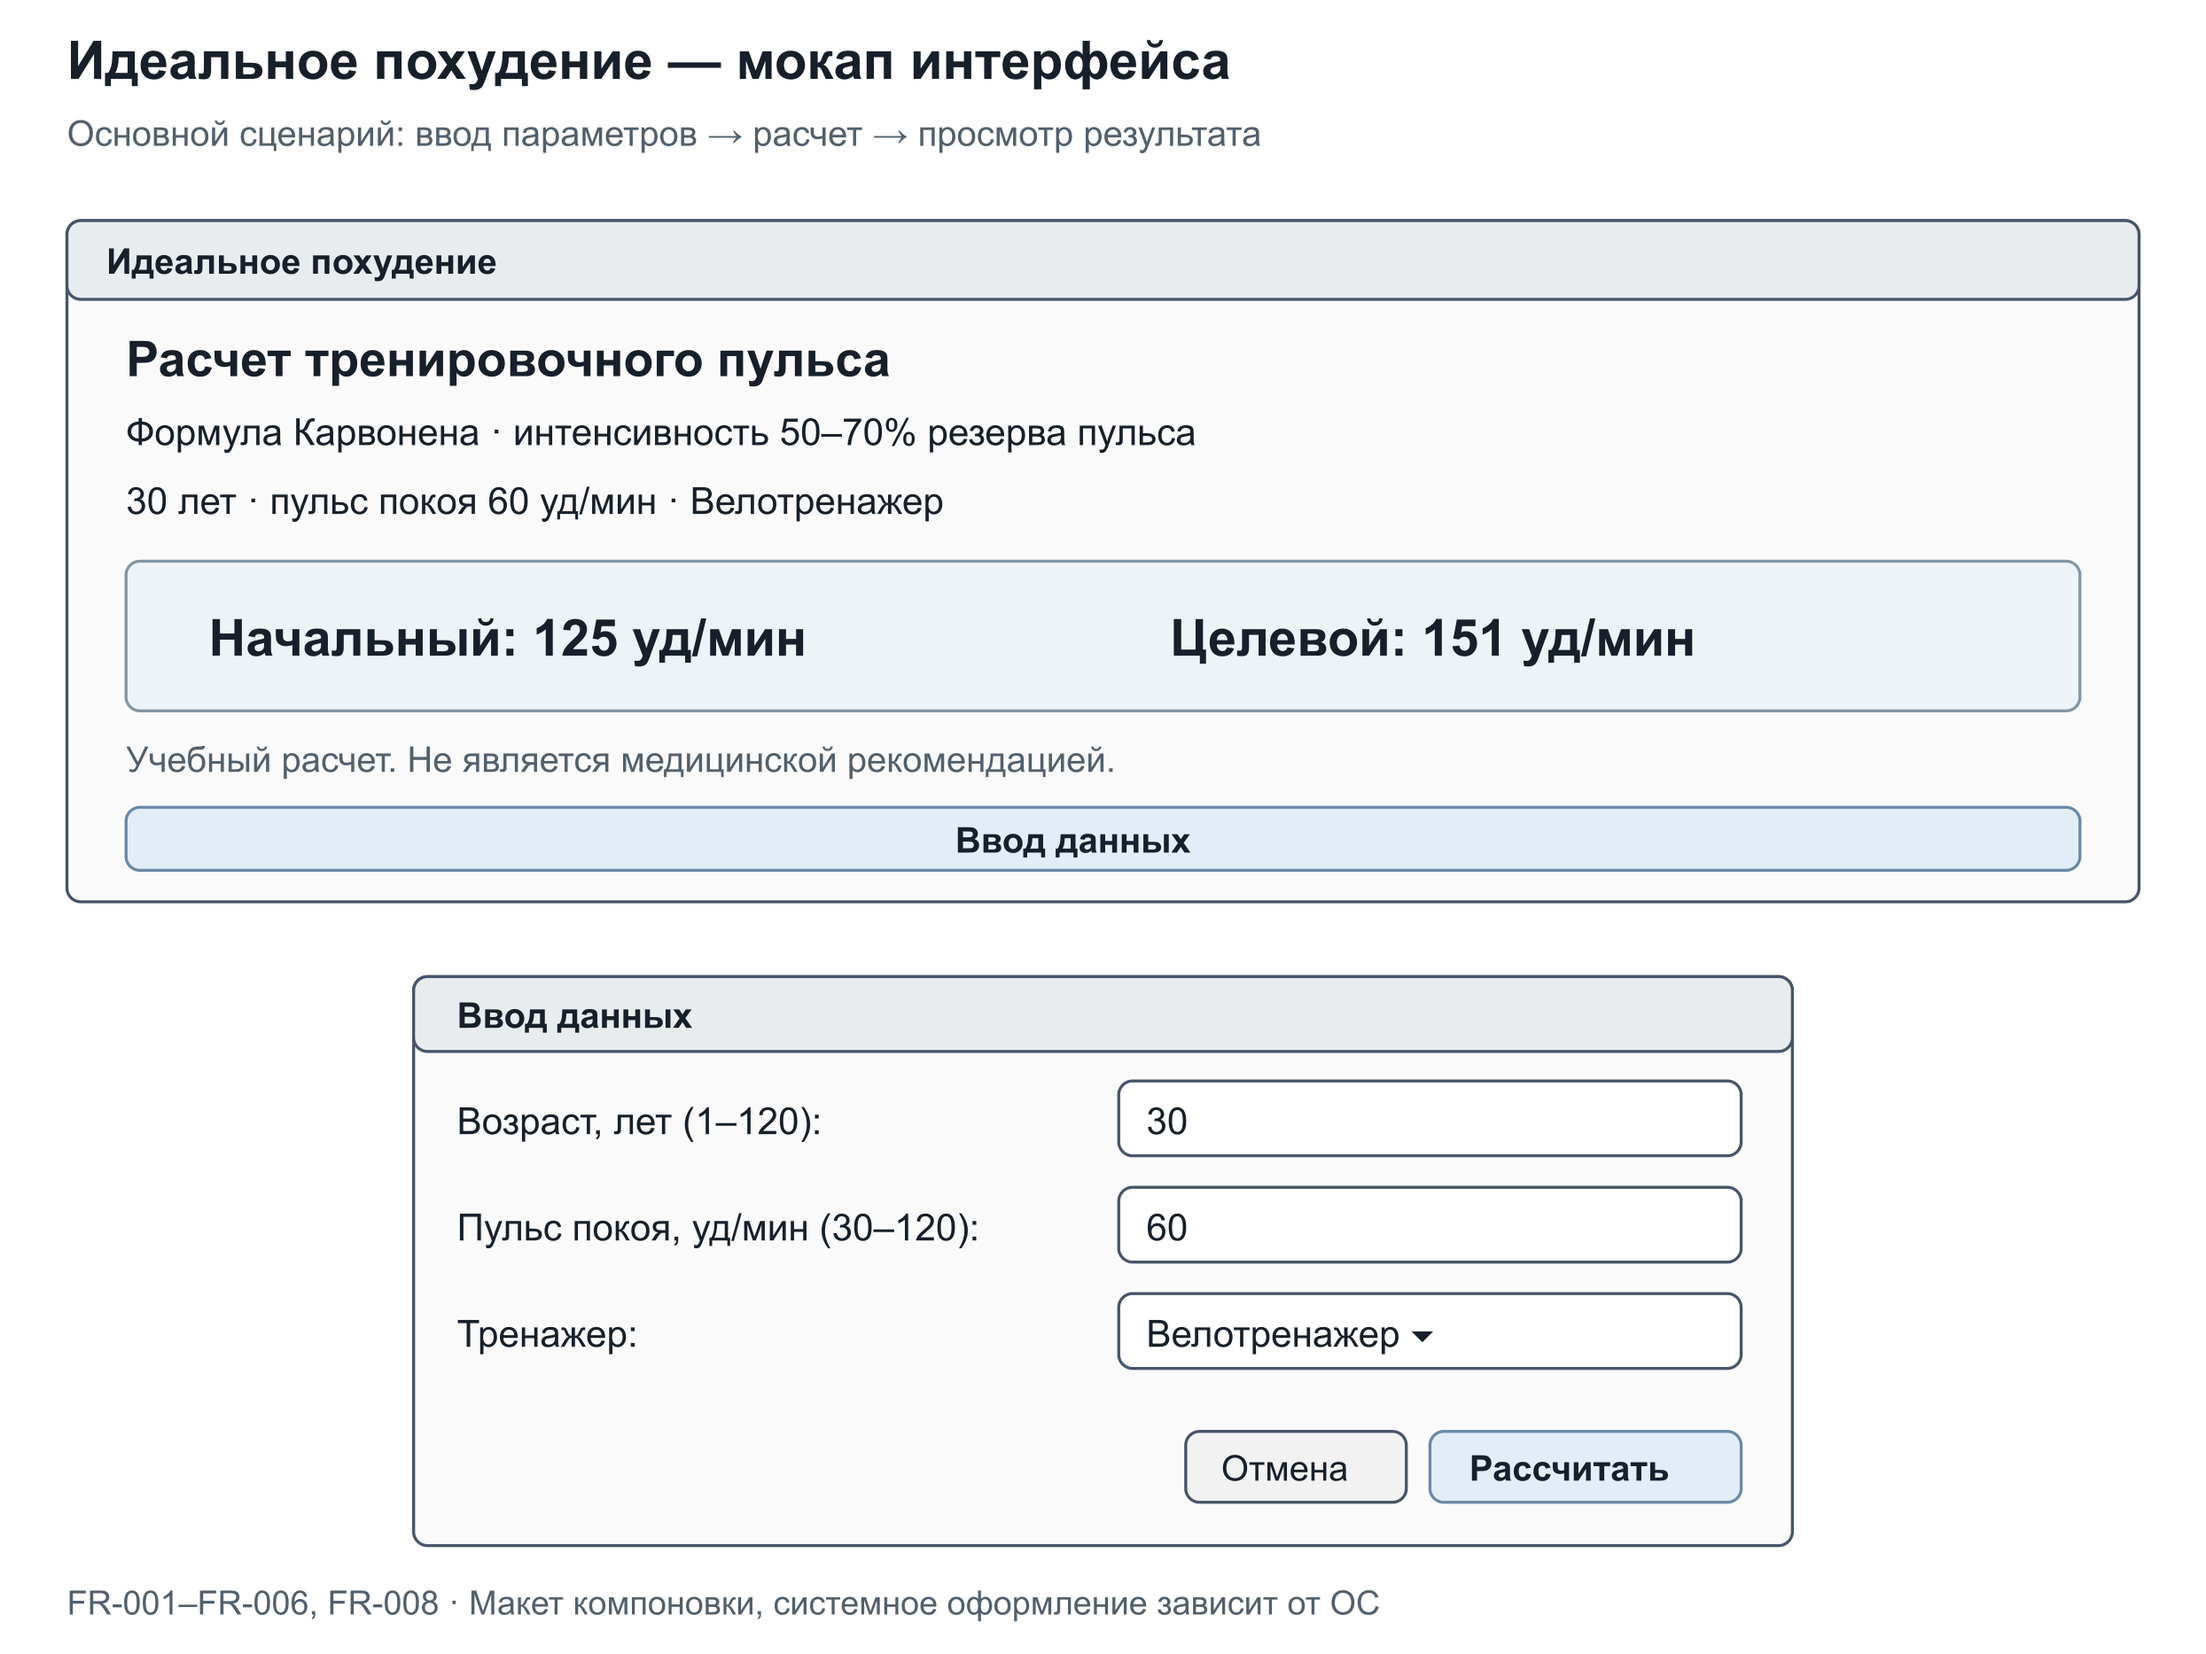
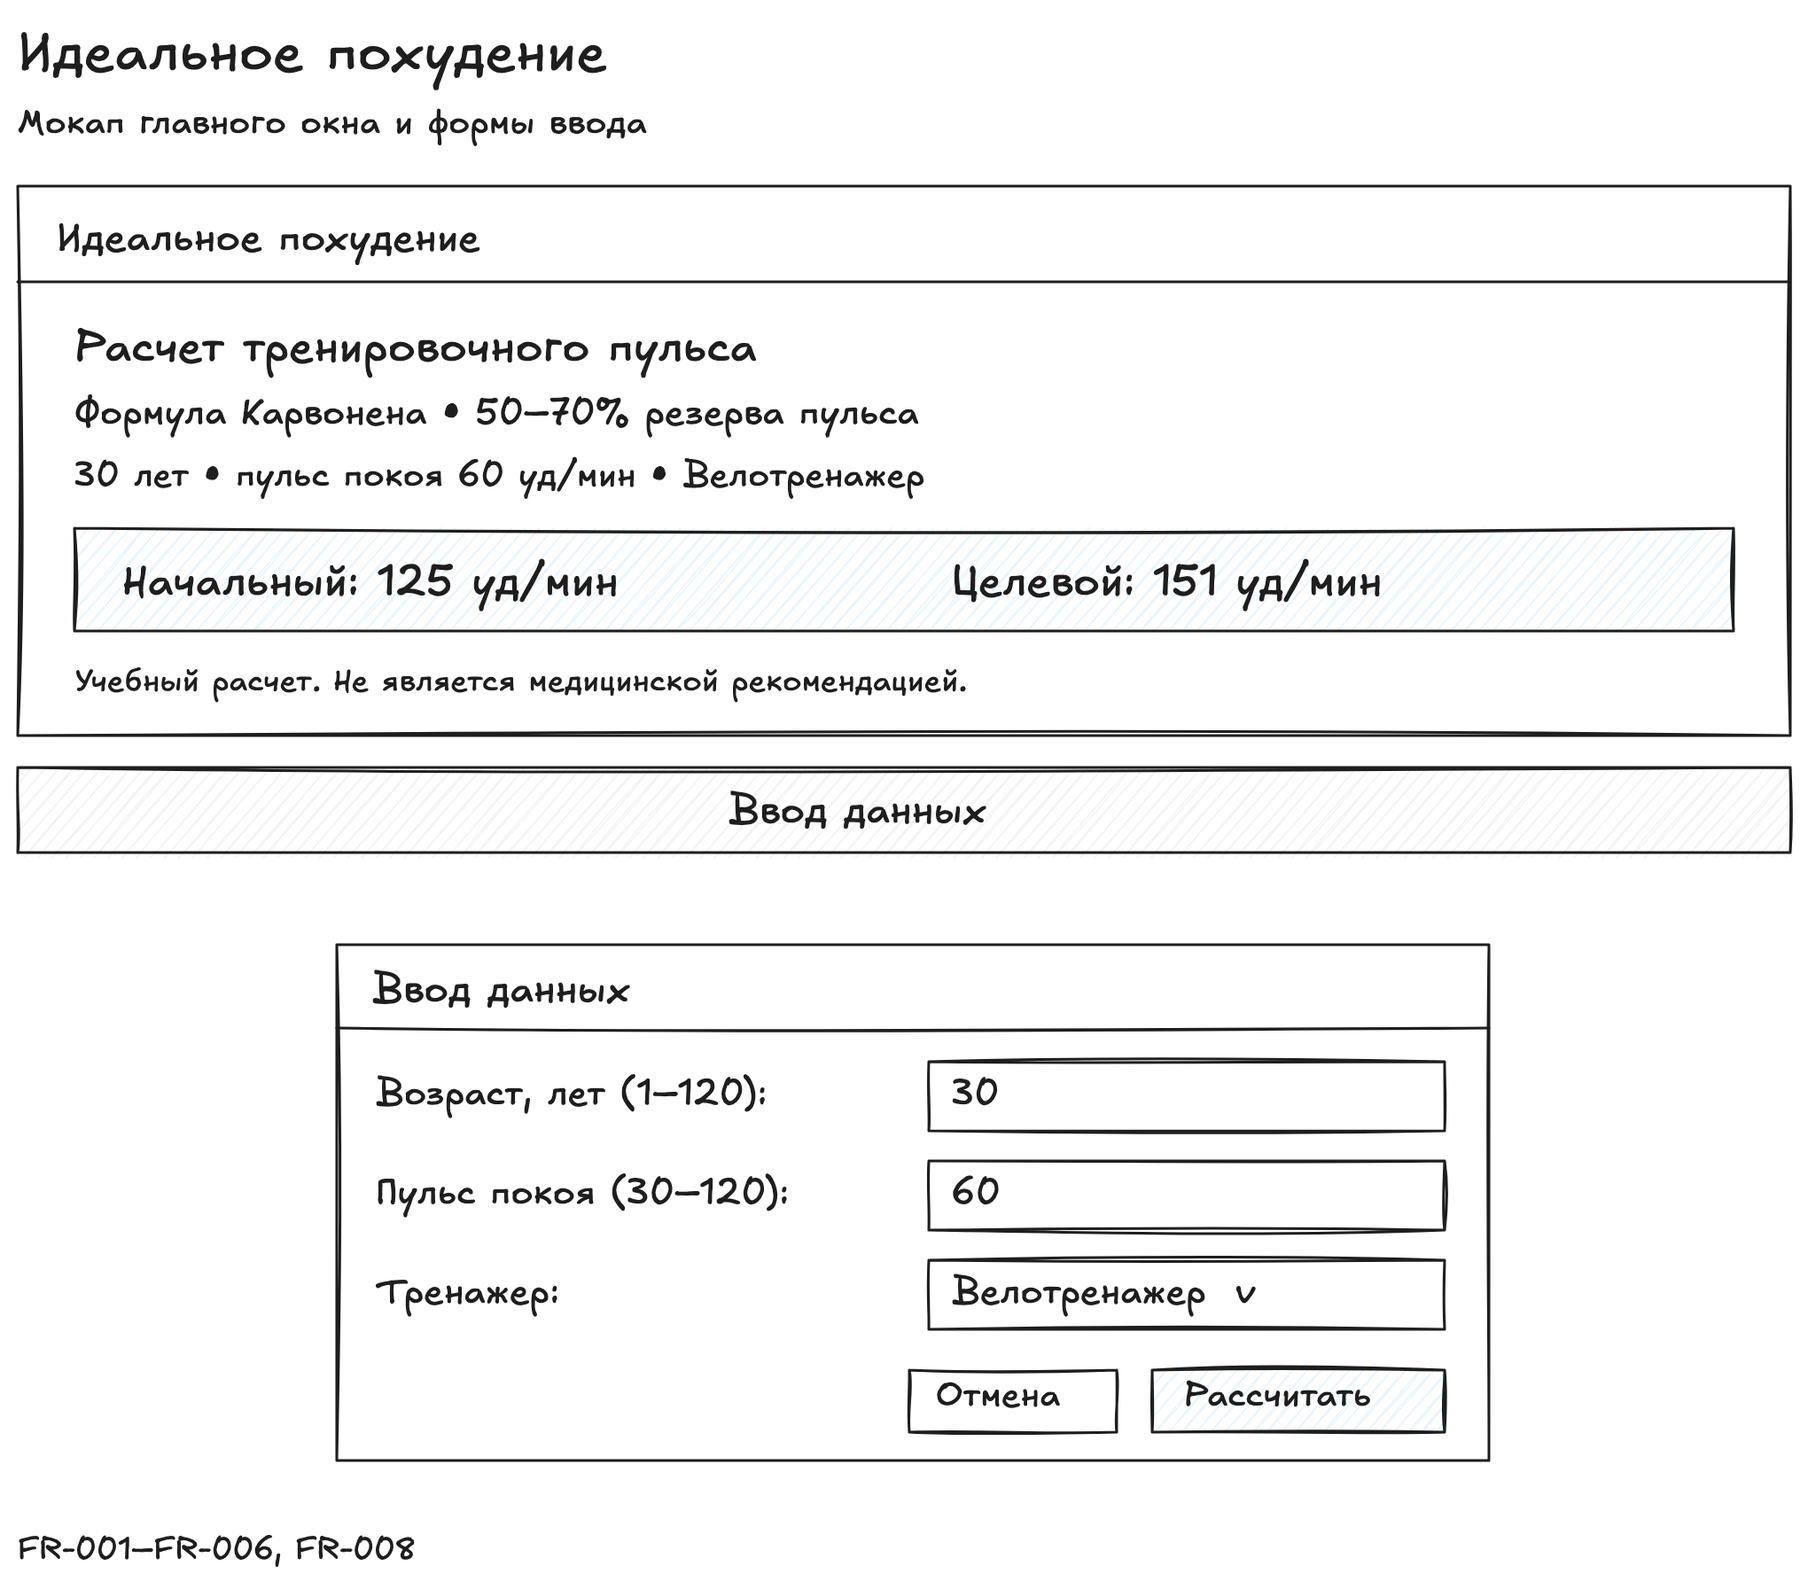
docs: redraw interface mockups in Excalidraw sketch style

diff --git a/docs/lab3-defense.md b/docs/lab3-defense.md
@@ -2,7 +2,7 @@
 
 ## Что сделано
 
-«Идеальное похудение», вариант 17, Desktop на Java Swing. Возраст + пульс покоя + тренажер → два значения пульса. В ЛР3 зафиксированы цели и требования в SRS, подготовлены мокапы SVG/PNG и модель SysMLv2. Реализация продолжает ЛР1; документация хранится в репозитории ЛР2. Расчет учебный, медицинскую эффективность не доказывает.
+«Идеальное похудение», вариант 17, Desktop на Java Swing. Возраст + пульс покоя + тренажер → два значения пульса. В ЛР3 зафиксированы цели и требования в SRS, подготовлены мокапы Excalidraw/SVG/PNG и модель SysMLv2. Реализация продолжает ЛР1; документация хранится в репозитории ЛР2. Расчет учебный, медицинскую эффективность не доказывает.
 
 ## Основные понятия
 

diff --git a/README.md b/README.md
@@ -20,6 +20,7 @@ java -cp out Main
 - [Спецификация требований SRS](srs/srs-template.md).
 - [Модель SysMLv2](models/fatloss.sysml).
 - [Мокап](images/ui-mockup.png) и [редактируемый SVG](images/ui-mockup.svg).
+- [Исходник мокапа Excalidraw](images/ui-mockup.excalidraw) и [исходник состояний](images/ui-states.excalidraw).
 - [Состояния интерфейса](images/ui-states.png).
 - [Графическое представление модели](images/sysml-requirements.png).
 - Реальные снимки: [начальное окно](images/app-start.png), [форма](images/app-input.png), [результат](images/app-result.png).

diff --git a/srs/srs-template.md b/srs/srs-template.md
@@ -80,7 +80,7 @@ Must: FR-001–FR-008 и NFR-001, NFR-002, NFR-004, NFR-006, NFR-007. Should: и
 
 ![Мокап главного окна и формы](../images/ui-mockup.png)
 
-[Редактируемый SVG](../images/ui-mockup.svg). [Состояния интерфейса](../images/ui-states.png).
+[Исходник Excalidraw](../images/ui-mockup.excalidraw). [Редактируемый SVG](../images/ui-mockup.svg). [Состояния интерфейса](../images/ui-states.png).
 
 #### 3.1.2 Аппаратные интерфейсы
 
